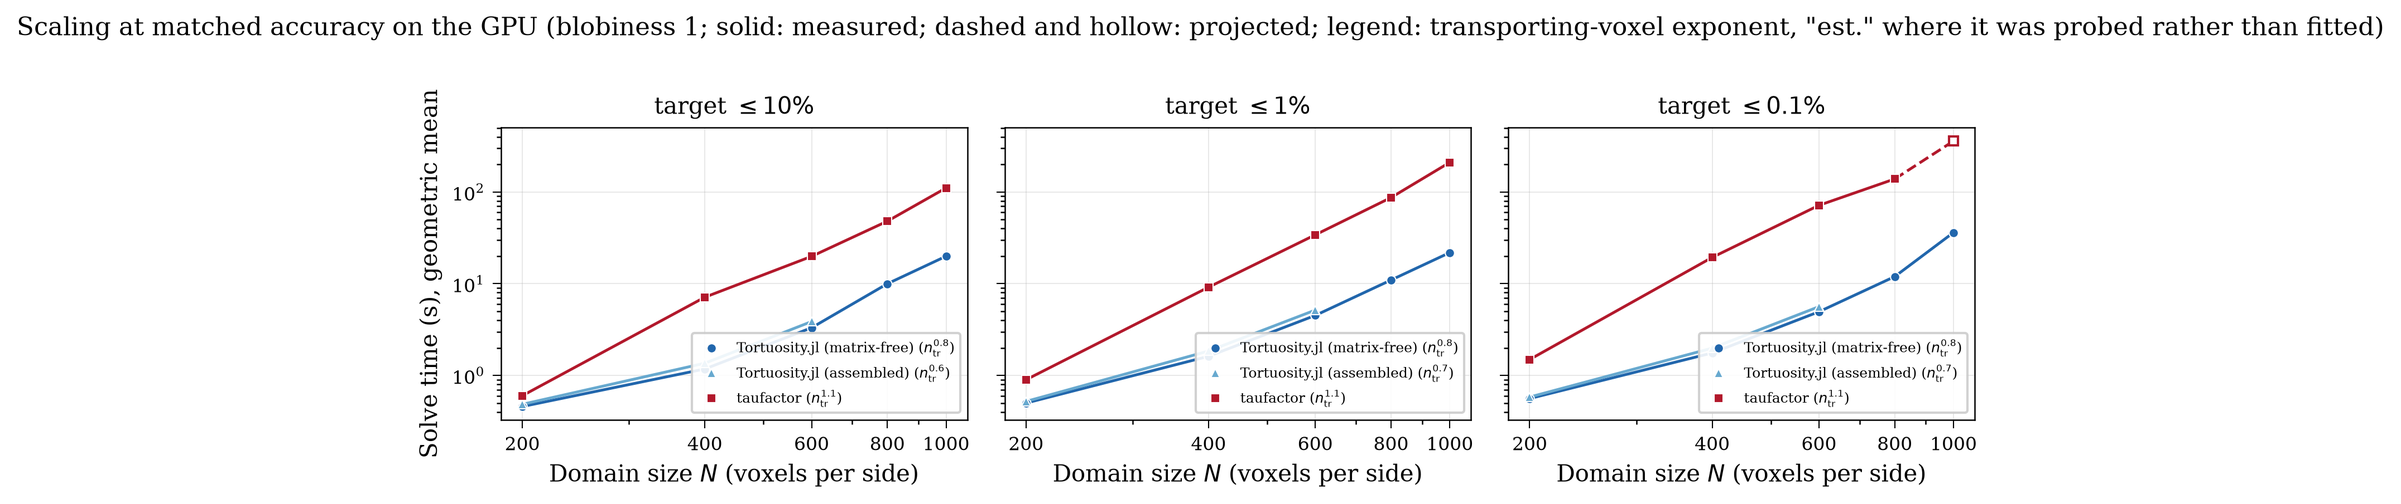
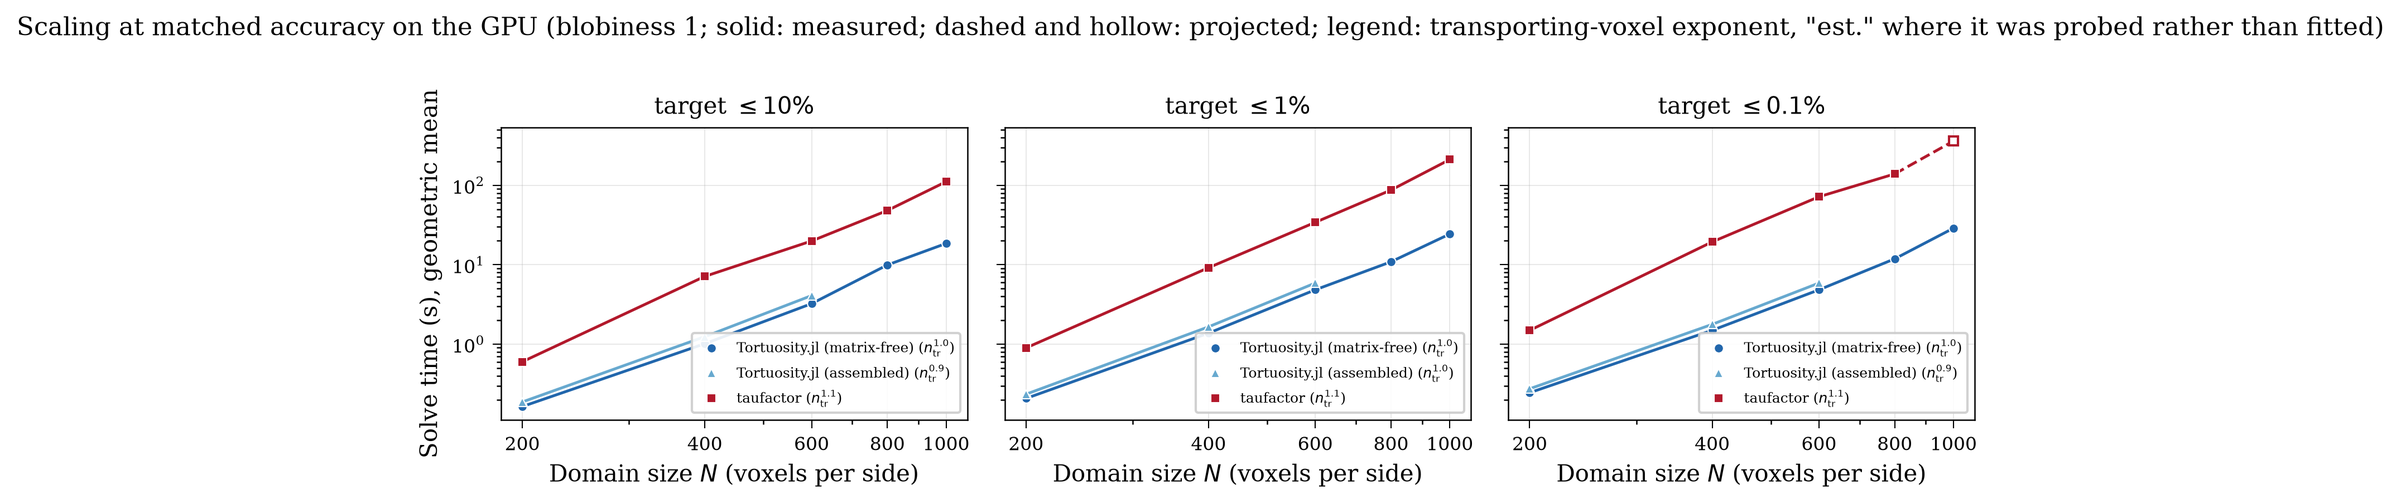
docs: rewrite the GPU results from the re-measured data
Two sentences in paper.md had become provably false: that taufactor was
faster in only one cell, and that it was faster only for the smallest
images at the two highest porosities. It is now faster in none of them.

paper.md reports the 70 paired GPU cases at a pooled 8.4x with a narrowest
margin of 1.3x, the closest cell as 0.46 s against 0.27 s, 21 s against
about 12 minutes at the largest size, the twelve-family geometric mean at
1000^3 rising from 8.4x to 9.1x, and operator agreement at 6e-5.

benchmark.md is rewritten wherever it quoted a GPU measurement: both
speedup tables, the fixed-family table, the accuracy-target table, the
device-memory table, the four taufactor failures, the determinism counts,
the per-blobiness means and the projected cell. The headline against our
own CPU path goes from 6.33x to 8.10x. The "solve only" memory rows are
untouched -- they come from the pre-refinement archive, which this campaign
did not re-measure, and the refinement decomposition they support still
holds at 20.0 B/node.

The figure caption is also shorter. It had grown when the hatched
projections were added, and with captions counted the paper came to 1765
words against JOSS's 1750 limit; it is now 1747 with captions and 1490
without, at no cost to what the caption says.

diff --git a/docs/src/benchmark.md b/docs/src/benchmark.md
@@ -150,7 +150,7 @@ The GPU model comes from the `accelerator` column of `environment.csv`, and the 
 
 ![Scaling at matched accuracy and the Tortuosity.jl-vs-competitor regime maps](assets/benchmark_summary.png)
 
-Panels (a) and (b) are the GPU: scaling at matched accuracy, and the speedup against taufactor resolved by size and porosity. Panels (c) and (d) are the CPU. Panel (d) is bars rather than a second regime map because the two CPU-only tools were run at ``200^3`` alone, and a size-by-porosity map of one measured column is four-fifths blank — which reads as a tool that tried and failed rather than as a sweep nobody could afford. Every panel is drawn at blobiness 1.0, and a blank heatmap cell means one or both tools never reached the target — the CSV carries a `stop_reason` for each.
+Panels (a) and (b) are the GPU: scaling at matched accuracy, and the speedup against taufactor resolved by size and porosity. Panels (c) and (d) are the CPU. Panel (d) is bars rather than a second regime map because the two CPU-only tools were run at ``200^3`` alone, and a size-by-porosity map of one measured column is four-fifths blank — which reads as a tool that tried and failed rather than as a sweep nobody could afford. Every panel is drawn at blobiness 1.0. A hatched heatmap cell is one taufactor never reached, where its time is projected from the same per-porosity power law the scaling panels use; a cell stays blank only where `Tortuosity.jl` itself has no measurement, since a ratio between two estimates would report nothing. The CSV carries a `stop_reason` for each.
 
 In the scaling panels a solid segment joins measurements, and a dashed segment with a hollow marker means at least one porosity there was projected rather than measured; the warning under *Against taufactor on the CPU* lists every projected value and how far each one reaches. A series stops where a porosity ran out of memory instead, since no mean over the porosities that remain covers the same images: that is why the assembled operator ends at ``600^3`` on the GPU. The legend carries the exponent of a power law fitted to the measured points, which is the comparison the panel exists for. taufactor comes to ``N^{3.3}`` on the GPU and ``N^{4.6}`` on the CPU, against ``N^{2.5}`` and ``N^{3.1}`` for the matrix-free path. Three is linear in voxel count, so ours is close to a fixed iteration count per solve while taufactor's rises with the edge length — the same effect the preconditioner section measures directly.
 
@@ -162,42 +162,42 @@ Speedup of `Tortuosity.jl` (matrix-free operator with the two-level precondition
 
 | Porosity | ``N=200`` | ``N=400`` | ``N=600`` | ``N=800`` | ``N=1000`` |
 |---|---|---|---|---|---|
-| ε ≈ 0.20 | **38.9×** | **136×** | **155×** | **188×** | — |
-| ε ≈ 0.40 | **3.39×** | **17.8×** | **25.9×** | **3.81×** | **32.0×** |
-| ε ≈ 0.60 | **1.72×** | **8.19×** | **7.81×** | **20.7×** | **7.29×** |
-| ε ≈ 0.80 | **1.26×** | **4.51×** | **6.53×** | **4.61×** | **4.24×** |
-| ε ≈ 0.95 | 0.47× | **1.82×** | **3.11×** | **3.10×** | **1.40×** |
-| geometric mean | 2.67× | 11.0× | 14.5× | 11.6× | 6.09× |
+| ε ≈ 0.20 | **83.9×** | **145×** | **171×** | **194×** | — |
+| ε ≈ 0.40 | **5.39×** | **18.3×** | **25.9×** | **3.89×** | **33.4×** |
+| ε ≈ 0.60 | **5.10×** | **10.5×** | **8.05×** | **20.6×** | **8.22×** |
+| ε ≈ 0.80 | **2.20×** | **5.71×** | **6.57×** | **4.60×** | **4.58×** |
+| ε ≈ 0.95 | **1.66×** | **2.29×** | **3.06×** | **3.10×** | **1.51×** |
+| geometric mean | 6.09× | 13.0× | 14.8× | 11.7× | 6.60× |
 
-The dash at ``N = 1000``, ε ≈ 0.20 is not a missing measurement: taufactor gave up after 2349.2 s at 8.61e-3 relative error, while `Tortuosity.jl` reached the target in 72.0 s. Blank cells throughout this page mean one tool never got there, never that the run was not attempted.
+The dash at ``N = 1000``, ε ≈ 0.20 is not a missing measurement: taufactor gave up after 2349.2 s at 8.61e-3 relative error, while `Tortuosity.jl` reached the target in 31.8 s. Blank cells throughout this page mean one tool never got there, never that the run was not attempted.
 
-Pooling all three microstructures rather than one gives 70 paired cases at the 0.1% target and a **pooled geometric mean of 6.55×**, ranging from 0.39× to 188×:
+Pooling all three microstructures rather than one gives 70 paired cases at the 0.1% target and a **pooled geometric mean of 8.40×**, ranging from 1.34× to 194×:
 
 | | ``N=200`` | ``N=400`` | ``N=600`` | ``N=800`` | ``N=1000`` | row |
 |---|---|---|---|---|---|---|
-| ε ≈ 0.20 | 29.4× | 53.5× | 83.8× | 128× | 58.7× | **58.3×** |
-| ε ≈ 0.40 | 2.66× | 11.2× | 14.3× | 12.7× | 28.5× | **10.2×** |
-| ε ≈ 0.60 | 1.44× | 6.72× | 10.4× | 13.9× | 13.3× | **7.13×** |
-| ε ≈ 0.80 | 0.69× | 2.77× | 6.14× | 4.18× | 4.86× | **2.99×** |
-| ε ≈ 0.95 | 0.47× | 1.64× | 3.19× | 3.18× | 2.17× | **1.76×** |
-| column | **2.05×** | **7.12×** | **10.4×** | **10.6×** | **8.44×** | **6.55×** |
+| ε ≈ 0.20 | 45.9× | 73.5× | 89.5× | 105× | 62.9× | **70.5×** |
+| ε ≈ 0.40 | 6.06× | 14.9× | 15.1× | 13.1× | 29.4× | **13.2×** |
+| ε ≈ 0.60 | 3.11× | 8.06× | 10.5× | 13.8× | 14.8× | **8.83×** |
+| ε ≈ 0.80 | 1.80× | 3.53× | 6.05× | 4.17× | 5.25× | **3.85×** |
+| ε ≈ 0.95 | 1.60× | 2.09× | 3.16× | 3.19× | 2.34× | **2.40×** |
+| column | **4.78×** | **9.18×** | **10.6×** | **10.3×** | **9.11×** | **8.40×** |
 
 Two things in this table matter beyond the headline.
 
-**Porosity moves the result more than size does.** The margin is set by how much solid there is to exclude and falls monotonically with porosity at every size — from 58× near ε ≈ 0.2 to 1.8× at ε ≈ 0.95. At ``N = 600``, ε ≈ 0.19 taufactor needs its entire 20 000-sweep budget and 867.9 s to reach the target, against 189 preconditioned CG iterations and 5.6 s.
+**Porosity moves the result more than size does.** The margin is set by how much solid there is to exclude and falls monotonically with porosity at every size — from 70× near ε ≈ 0.2 to 2.4× at ε ≈ 0.95. At ``N = 600``, ε ≈ 0.19 taufactor needs its entire 20 000-sweep budget and 867.9 s to reach the target, against 189 preconditioned CG iterations and 5.1 s.
 
 **The size trend rises steeply and then plateaus; it does not keep widening.** The column means above mix a changing case set as taufactor drops out, so they overstate the trend. On a fixed set of 12 microstructure/porosity families that both tools solve at *every* size:
 
 | | ``N=200`` | ``N=400`` | ``N=600`` | ``N=800`` | ``N=1000`` |
 |---|---|---|---|---|---|
-| geometric mean | 1.11× | 4.57× | 8.18× | 7.52× | 8.44× |
-| worst case | 0.39× | 1.55× | 2.53× | 2.51× | 1.40× |
-| best case | 13.4× | 18.4× | 45.2× | 87.9× | 58.6× |
+| geometric mean | 2.79× | 5.92× | 8.16× | 7.30× | 9.11× |
+| worst case | 1.34× | 1.96× | 2.48× | 2.52× | 1.51× |
+| best case | 15.5× | 24.5× | 46.7× | 56.7× | 62.9× |
 
 That fixed set is a stricter subset than the pooled table, because a family has to pair at ``1000^3`` as well, which excludes the low-porosity families where the margin is largest. Both are honest; only this one supports a five-size scaling claim. The margin rises to about 8× by ``600^3`` and holds. Meanwhile the **spread keeps opening** while the mean stays flat, so the geometric mean alone hides the shape.
 
 !!! note "Restricting to cases both tools solve biases against us"
-    A speedup ratio needs both tools to have produced an answer, and the cases taufactor cannot finish are exactly the ones we win biggest. Four such cases exist at the 0.1% target and appear in no speedup figure: `n600_b050_p020` (taufactor exhausted its ladder at 868.3 s and 1.52e-3 error; ours 2.66 s), `n800_b050_p020` (2060.4 s, 1.75e-3; ours 9.41 s), `n1000_b050_p040` (timed out at 2351.8 s, 2.18e-3; ours 20.6 s) and `n1000_b100_p020` (2349.2 s, 8.61e-3; ours 72.0 s). As lower bounds those are 326×, 219×, 114× and 33×, and in each one taufactor never produced the answer at all.
+    A speedup ratio needs both tools to have produced an answer, and the cases taufactor cannot finish are exactly the ones we win biggest. Four such cases exist at the 0.1% target and appear in no speedup figure: `n600_b050_p020` (taufactor exhausted its ladder at 868.3 s and 1.52e-3 error; ours 2.51 s), `n800_b050_p020` (2060.4 s, 1.75e-3; ours 9.31 s), `n1000_b050_p040` (timed out at 2351.8 s, 2.18e-3; ours 19.9 s) and `n1000_b100_p020` (2349.2 s, 8.61e-3; ours 31.8 s). As lower bounds those are 345×, 221×, 118× and 74×, and in each one taufactor never produced the answer at all.
 
     There are no cases in the other direction: `Tortuosity.jl` reaches the 0.1% target on all 74 GPU cases (`stop_reason = target_reached` in every row of `results/timings/tortuosity-gpu-matrixfree.csv`).
 
@@ -207,15 +207,15 @@ Reporting a single accuracy target flatters whichever solver happens to suit it.
 
 | target | paired cases | pooled geometric mean | cases taufactor wins | where |
 |---|---|---|---|---|
-| 10% | 74 | 4.19× | 10 | all at ``N = 200`` |
-| 1% | 74 | 5.20× | 10 | all at ``N = 200`` |
-| 0.1% | 70 | 6.55× | 7 | all at ``N = 200`` |
+| 10% | 74 | 5.35× | 0 | — |
+| 1% | 74 | 6.45× | 0 | — |
+| 0.1% | 70 | 8.40× | 0 | — |
 
 (GPU, all five sizes, all three microstructures.) The case count drops to 70 at the tightest target because that is where taufactor's four failures land; those four are dropped from the mean rather than counted as wins.
 
-taufactor is faster **only** at ``N = 200``, on 10 of 74 paired cases at the loosest target and 7 of 70 at the tightest, always at ε ≥ 0.4. Its worst-case-for-us cell is `n200_b200_p095`, where 6 SOR sweeps and 0.381 s beat 59 CG iterations and 0.976 s — 0.39×.
+taufactor is no longer faster in any paired case, at any of the three targets. The narrowest cell is `n200_b200_p095`, where 6 SOR sweeps and 0.381 s now lose to 59 CG iterations and 0.284 s — 1.34×. Both iteration counts are unchanged from the earlier campaign; what moved was our fixed cost per solve.
 
-Both ends have a mechanism. taufactor's SOR starts from a linear concentration profile, which for an open medium is already close to the answer, so when little accuracy is demanded it has little left to do. `Tortuosity.jl` meanwhile pays a fixed setup cost — assembling the operator and building the coarse space — that is charged even to a solve which then runs for one iteration. At ``200^3`` that fixed cost is a large fraction of a sub-second solve. As the image grows, or the target tightens, the convergence rate of the method decides the outcome, which is where a Krylov method separates from a stationary one.
+The narrow margin at ``200^3`` has a mechanism. taufactor's SOR starts from a linear concentration profile, which for an open medium is already close to the answer, so when little accuracy is demanded it has little left to do. `Tortuosity.jl` meanwhile pays a fixed setup cost — assembling the operator and building the coarse space — that is charged even to a solve which then runs for one iteration. At ``200^3`` that fixed cost is a large fraction of a sub-second solve, though the steady-pipeline work has cut it far enough to turn those cells from losses into wins. As the image grows, or the target tightens, the convergence rate of the method decides the outcome, which is where a Krylov method separates from a stationary one.
 
 ![Accuracy vs solve time on the GPU](assets/benchmark_pareto.png)
 
@@ -243,21 +243,21 @@ Pooled over all three microstructures, 56 paired cases, geometric mean 10.3×, r
 !!! warning "The taufactor CPU dataset has two gaps, and the scaling panel fills them by projection"
     There is **no taufactor CPU data at ``1000^3``**, and none at ``800^3`` for ε ≈ 0.2. The ``800^3`` cases were excluded from the sweep that ran and the follow-up never happened — a sequencing gap, not a decision. Filling it was judged not worth the machine time: the worst ``600^3`` CPU case took 6.02 h and exhausted its ladder without reaching the target.
 
-    The tables above and the heatmaps report measurements only, so those cells stay blank. The scaling panels do not, because a mean over whichever porosities a tool happened to reach is a different quantity at every size, and biased in one direction: the porosity taufactor loses first is the densest, which is the one it is slowest on. Dropping it drew taufactor levelling off on the GPU and speeding up on the CPU, neither of which happens. Each missing cell is therefore projected from a power law fitted to that porosity's own measured sizes, and every point on those panels averages over the same five porosities.
+    The tables above report measurements only, so those cells stay blank. The heatmaps and the scaling panels do not, because a mean over whichever porosities a tool happened to reach is a different quantity at every size, and biased in one direction: the porosity taufactor loses first is the densest, which is the one it is slowest on. Dropping it drew taufactor levelling off on the GPU and speeding up on the CPU, neither of which happens. Each missing cell is therefore projected from a power law fitted to that porosity's own measured sizes, and every point on those panels averages over the same five porosities.
 
     A power law is the right form here — cost per unknown is fixed, and both the unknown count and the sweep count are powers of the edge length — and it fits taufactor tightly, at ``R^2`` from 0.95 to 0.998 per porosity. It is also what makes the per-cell noise tolerable: which rung of a coarse ladder first crosses the target is close to arbitrary, so individual cells are not monotonic in size even where the underlying cost is.
 
-    The projected values, at blobiness 1.0 and the 0.1% target: on the CPU ``1000^3`` comes to 3537 s at ε ≈ 0.4, 10658 s at 0.6, 3532 s at 0.8 and 1665 s at 0.95. **The two ε ≈ 0.2 projections are the weakest numbers in this document** — 27.7 h at ``800^3`` and 85.3 h at ``1000^3``, from three measured sizes and an exponent of 5.04, extrapolating two size steps rather than one. They dominate their geometric means. On the GPU only one cell is projected, ε ≈ 0.2 at ``1000^3``, at 5328 s; that case did run, reaching 0.86% error in 2349 s before it timed out, so the measurement bounds the projection from below and is consistent with it.
+    The projected values, at blobiness 1.0 and the 0.1% target: on the CPU ``1000^3`` comes to 3537 s at ε ≈ 0.4, 10658 s at 0.6, 3532 s at 0.8 and 1665 s at 0.95. **The two ε ≈ 0.2 projections are the weakest numbers in this document** — 27.7 h at ``800^3`` and 85.3 h at ``1000^3``, from three measured sizes and an exponent of 5.04, extrapolating two size steps rather than one. They dominate their geometric means. On the GPU only one cell is projected, ε ≈ 0.2 at ``1000^3``, at 5103 s; that case did run, reaching 0.86% error in 2349 s before it timed out, so the measurement bounds the projection from below and is consistent with it.
 
 ### Against our own CPU path
 
-On the GPU the solver is **6.33× faster than its own HostCG CPU path**, geometric mean over all 74 cases, ranging 1.51× to 9.94×:
+On the GPU the solver is **8.10× faster than its own HostCG CPU path**, geometric mean over all 74 cases, ranging 2.31× to 12.2×:
 
 | | ``N=200`` | ``N=400`` | ``N=600`` | ``N=800`` | ``N=1000`` |
 |---|---|---|---|---|---|
-| GPU over CPU | 3.00× | 6.17× | 8.02× | 8.59× | 8.09× |
+| GPU over CPU | 7.00× | 7.95× | 8.18× | 8.43× | 9.19× |
 
-The ratio rises with size and then holds near 8×, which is what a device with a fixed launch overhead and a large bandwidth advantage should do.
+The ratio rises with size and then holds between 8× and 9×, which is what a device with a fixed launch overhead and a large bandwidth advantage should do.
 
 ### Against the CPU-only tools
 
@@ -336,20 +336,20 @@ Peak device memory, blobiness 1.0, in GB. **The figure plots `results/memory/*.c
 | ``N`` | | ε ≈ 0.20 | 0.40 | 0.60 | 0.80 | 0.95 | taufactor |
 |---|---|---|---|---|---|---|---|
 | 200 | matrix-free, solve only | 0.081 | 0.128 | 0.177 | 0.225 | 0.260 | 0.227 |
-| | matrix-free, as shipped | 0.101 | 0.192 | 0.274 | 0.354 | 0.412 | |
-| | assembled, as shipped | 0.197 | 0.340 | 0.519 | 0.698 | 0.829 | |
+| | matrix-free, as shipped | 0.109 | 0.200 | 0.282 | 0.362 | 0.421 | |
+| | assembled, as shipped | 0.225 | 0.421 | 0.600 | 0.778 | 0.829 | |
 | 400 | matrix-free, solve only | 0.632 | 1.065 | 1.491 | 1.911 | 2.205 | 1.801 |
-| | matrix-free, as shipped | 0.867 | 1.570 | 2.262 | 2.945 | 3.422 | |
-| | assembled, as shipped | 1.285 | 2.780 | 4.268 | 5.746 | 6.788 | |
+| | matrix-free, as shipped | 0.867 | 1.570 | 2.263 | 2.946 | 3.424 | |
+| | assembled, as shipped | 1.285 | 2.781 | 4.269 | 5.747 | 6.789 | |
 | 600 | matrix-free, solve only | 2.152 | 3.632 | 5.023 | 6.403 | 7.440 | 6.068 |
-| | matrix-free, as shipped | 2.956 | 5.360 | 7.620 | 9.862 | 11.547 | |
-| | assembled, as shipped | 4.430 | 9.566 | 14.424 | 19.269 | 22.932 | |
+| | matrix-free, as shipped | 2.957 | 5.362 | 7.622 | 9.864 | 11.549 | |
+| | assembled, as shipped | 4.431 | 9.568 | 14.426 | 19.271 | 22.934 | |
 | 800 | matrix-free, solve only | 5.089 | 8.521 | 11.876 | 15.212 | 17.658 | 14.375 |
-| | matrix-free, as shipped | 6.988 | 12.562 | 18.013 | 23.432 | 27.407 | |
-| | assembled, as shipped | 10.499 | 22.424 | 43.852 | *oom* | *oom* | |
+| | matrix-free, as shipped | 6.989 | 12.564 | 18.015 | 23.436 | 27.411 | |
+| | assembled, as shipped | 10.500 | 22.426 | 43.855 | *oom* | *oom* | |
 | 1000 | matrix-free, solve only | 9.900 | 16.660 | 23.275 | 29.788 | 34.443 | 28.057 |
-| | matrix-free, as shipped | 13.584 | 24.565 | 35.312 | 45.892 | 49.653 | |
-| | assembled, as shipped | 20.421 | 48.506 | *oom* | *oom* | *oom* | |
+| | matrix-free, as shipped | 13.586 | 24.568 | 35.316 | 45.898 | 49.660 | |
+| | assembled, as shipped | 20.423 | 48.509 | *oom* | *oom* | *oom* | |
 
 **The measured matrix-free footprint is a two-term model, and it is exact for this dataset.** Fitted by least squares on the five ``800^3`` solve-only points: **32.02 bytes per pore node plus 4.00 bytes per grid voxel**. Extrapolated to ``1000^3`` it reproduces all five measured points to within 0.013%, and the worst residual anywhere at ``N \ge 400`` is 0.09%. The two terms are the mechanism written down: 4 bytes per *voxel* is the `Int32` index map over the grid, and 32 bytes per *pore node* is the Krylov workspace and preconditioner, which both operator forms share. The later direct-readout path adds at most 8 bytes per open inlet-face voxel, an ``O(N^2)`` term that these measurements predate and that remains negligible beside the ``O(N^3)`` solve storage. (``200^3`` sits about 5% off the model, which is allocation granularity at a footprint of a few hundred megabytes.)
 
@@ -359,7 +359,7 @@ Refinement adds a flat **20.0 bytes per pore node**, giving 52 B/node + 4 B/voxe
 
 | basis | geometric mean | range |
 |---|---|---|
-| as shipped (solve + refinement) | **1.84×** | 1.48× – 2.43× |
+| as shipped (solve + refinement) | **1.87×** | 1.48× – 2.43× |
 | solve only | **2.32×** | 1.73× – 3.18× |
 
 The two differ because refinement's 20 B/node is charged to *both* operators and is common to them, so including it pushes the ratio toward 1. Ratios are the robust quantity here: any workspace both forms share is conservative, and a common scale error cancels.
@@ -371,7 +371,7 @@ The two differ because refinement's 20 B/node is charged to *both* operators and
 
 **Against taufactor.** taufactor holds dense arrays over the whole grid, so its device footprint is flat in porosity: at ``1000^3`` all five porosities report the identical 28 056 869 888 bytes, and the per-voxel figure converges from 28.43 B/voxel at ``200^3`` to 28.06 at ``1000^3``. The comparison therefore turns entirely on our side of the ledger. As shipped, `Tortuosity.jl` uses less device memory at the **two lowest porosities and more at the three highest, at every size**. On the solve alone it is four of five at ``200^3`` and three of five from ``400^3`` up. The porosities where refinement costs the comparison are exactly the porosities where it buys nothing: the campaign's worst GPU error at ε ≈ 0.6 is 7.9e-4 and at ε ≈ 0.95 is 5.8e-4, both inside the 0.1% target with no refinement at all.
 
-**The ceiling.** The matrix-free operator completes every ``1000^3`` case on the 48 GB card, but not with much to spare: at ε ≈ 0.95 it peaks at 49.653 GB, which is 46.24 of the 47.268 GiB the runtime reports — 97.8% — and that is the case where the refinement guard fires. The assembled operator runs out above ε ≈ 0.8 at ``800^3`` and above ε ≈ 0.4 at ``1000^3``. Those `oom` rows are results, not gaps.
+**The ceiling.** The matrix-free operator completes every ``1000^3`` case on the 48 GB card, but not with much to spare: at ε ≈ 0.95 it peaks at 49.660 GB, which is 46.25 of the 47.268 GiB the runtime reports — 97.8% — and that is the case where the refinement guard fires. The assembled operator runs out above ε ≈ 0.8 at ``800^3`` and above ε ≈ 0.4 at ``1000^3``. Those `oom` rows are results, not gaps.
 
 ![Peak host memory on the CPU](assets/benchmark_memory_cpu.png)
 
@@ -408,7 +408,7 @@ Against the 250 GB this host holds, ``400^3`` fits everywhere, ``600^3`` fits up
 
 The tables above are measured with both enabled, because that is what `solve(sim)` selects for images this size. They contribute in quite different ways.
 
-**The operator buys memory, while CPU speed is architecture- and size-dependent.** Holding everything else fixed and switching only the operator, matrix-free is **1.14×** faster end to end on the GPU (geometric mean over 59 paired cases). On the Waterloo CPU the two HostCG paths are within 1.4% geometrically over 74 cases: assembled is 1.14× faster at ``200^3``, the paths are within 1% at ``400^3`` and ``600^3``, and matrix-free becomes 1.07× faster at ``800^3`` and 1.14× at ``1000^3``. The memory result is unambiguous: assembled uses **2.08×** as much host memory geometrically, ranging 1.48×–2.62×, and its size-wise ratio rises from 1.85× at ``200^3`` to 2.36× at ``1000^3``. The 20 cases where the assembled operator does not fit are on the GPU and remain unchanged.
+**The operator buys memory, while CPU speed is architecture- and size-dependent.** Holding everything else fixed and switching only the operator, matrix-free is **1.16×** faster end to end on the GPU (geometric mean over 59 paired cases). On the Waterloo CPU the two HostCG paths are within 1.4% geometrically over 74 cases: assembled is 1.14× faster at ``200^3``, the paths are within 1% at ``400^3`` and ``600^3``, and matrix-free becomes 1.07× faster at ``800^3`` and 1.14× at ``1000^3``. The memory result is unambiguous: assembled uses **2.08×** as much host memory geometrically, ranging 1.48×–2.62×, and its size-wise ratio rises from 1.85× at ``200^3`` to 2.36× at ``1000^3``. The 20 cases where the assembled operator does not fit are on the GPU and remain unchanged.
 
 **The preconditioner buys iterations.** Measured directly at a fixed relative residual of 1e-6, on the CPU in `Float64`, matrix-free, blobiness 1.0, over the cached campaign images (`results/iteration-counts-2026-08-21.log`). Iteration counts are deterministic given the image and the code, so this needs no quiet machine and reproduces exactly.
 
@@ -449,7 +449,7 @@ The honest headline is therefore not a flat count but a widening benefit — geo
 
 ![Tortuosity and solver ranking across the three microstructures](assets/benchmark_blobiness.png)
 
-The left panel establishes that the three blobiness values really are different problems: at ``N = 1000``, low porosity, the coarse and fine structures differ in ``\tau`` by a factor that grows as the medium closes up. The remaining panels ask whether the ranking between solvers survives that. It does — the margin against taufactor is smaller on the finest structure at every porosity (pooled geometric means at the 0.1% target: 7.23× at blobiness 0.5, 7.95× at 1.0, 5.00× at 2.0) but never changes sign except in the ``200^3`` cells already noted.
+The left panel establishes that the three blobiness values really are different problems: at ``N = 1000``, low porosity, the coarse and fine structures differ in ``\tau`` by a factor that grows as the medium closes up. The remaining panels ask whether the ranking between solvers survives that. It does — the margin against taufactor is smaller on the finest structure at every porosity (pooled geometric means at the 0.1% target: 9.21× at blobiness 0.5, 9.97× at 1.0, 6.58× at 2.0) and never changes sign.
 
 ### Cross-code agreement
 
@@ -459,7 +459,7 @@ The reference is our own code, which is the weakest link in the accuracy chain, 
 
 **The GPU result is reproducible run to run, but not guaranteed bit-for-bit.** The two-level preconditioner used to accumulate its restriction with atomic floating-point additions, whose order is not fixed between launches. A float sum is not associative, so the same image at the same tolerance returned a slightly different ``\tau`` on every run — by roughly the size of the accuracy target on the most ill-conditioned images. That has been fixed. `_restrict!` now **gathers over a fixed coarse-to-fine adjacency** built once at setup (`Aggregation` in `src/preconditioner.jl`), which needs no atomic and fixes the summation order, paying for the ordering once instead of on every CG iteration.
 
-The campaign data shows the fix took: across `results/timings/tortuosity-gpu-matrixfree.csv`, **all 621 of the 621 rows measured with three repeats record `tau_spread` of exactly 0** — three GPU runs of the same configuration returning the identical ``\tau`` to every recorded digit. The same holds for all 496 three-repeat rows of the assembled GPU file. (The remaining rows carry `repeats = 1` because the first repeat exceeded the 60 s threshold, and a NaN spread rather than a zero, which is the honest record of not having looked.)
+The campaign data shows the fix took: across `results/timings/tortuosity-gpu-matrixfree.csv`, **all 634 of the 634 rows measured with three repeats record `tau_spread` of exactly 0** — three GPU runs of the same configuration returning the identical ``\tau`` to every recorded digit. The same holds for all 507 three-repeat rows of the assembled GPU file. (The remaining rows carry `repeats = 1` because the first repeat exceeded the 60 s threshold, and a NaN spread rather than a zero, which is the honest record of not having looked.)
 
 What remains is narrower: **atomic additions are still used to assemble the Galerkin coarse operator** (`_coarse_stencil_kernel!`, which forms ``W^\top A W`` in one pass over the stored entries). That runs once per solve at setup, not once per iteration, but it means bit-for-bit equality across runs is still not guaranteed. If you need an exactly reproducible number, use the CPU `Float64` path. It shows zero spread throughout.
 

diff --git a/paper/paper.md b/paper/paper.md
@@ -53,15 +53,15 @@ The architecture separates porous-media problem construction from numerical solu
 
 Two interchangeable operator representations expose the main design trade-off. The assembled representation stores a sparse matrix and can use vendor sparse-linear-algebra libraries. The matrix-free representation stores only a four-byte index map over the image and reconstructs each row during a matrix-vector product, exchanging repeated arithmetic for lower storage and data movement. A geometric coarse-space preconditioner supplies long-range corrections that conjugate gradient would otherwise recover slowly; over the measured $200^3$ to $600^3$ range, it reduced iteration counts by factors of 12.5 to 29.6.
 
-The numerical engines are integrated through their native interfaces rather than reimplemented. Steady problems use `LinearSolve.jl`, and transient problems use `OrdinaryDiffEq.jl` with composable callbacks [@kimmerer2024linearsolve; @rackauckas2017diffeq]. Data-parallel kernels are implemented with `KernelAbstractions.jl` [@churavy2024ka], while package extensions register CUDA, AMDGPU, or Metal without making them core dependencies. The CUDA path additionally uses cuSPARSE for assembled matrix-vector products [@besard2019cuda]. Other extensions keep image filtering, curve fitting, and HDF5 export optional. GPU calculations use single precision for performance and portability, with iterative refinement against a double-precision residual when additional accuracy is needed.
+The numerical engines are integrated through their native interfaces rather than reimplemented, with one deliberate exception: because the host steady iteration is limited by memory bandwidth rather than arithmetic, the package registers its own `LinearSolve.jl` conjugate-gradient algorithm, `HostCG`, which fuses the vector kernels of the standard preconditioned iteration by combining the solution and residual updates and folding the preconditioner prolongation into the residual inner product. It is selected automatically for double-precision host systems above ten thousand unknowns, while smaller host problems and all GPU problems use the generic Krylov solver. Steady problems otherwise use `LinearSolve.jl`, and transient problems use `OrdinaryDiffEq.jl` with composable callbacks [@kimmerer2024linearsolve; @rackauckas2017diffeq]. Data-parallel kernels are implemented with `KernelAbstractions.jl` [@churavy2024ka], while package extensions register CUDA, AMDGPU, or Metal without making them core dependencies. The CUDA path additionally uses cuSPARSE for assembled matrix-vector products [@besard2019cuda]. Other extensions keep image filtering, curve fitting, and HDF5 export optional. GPU calculations use single precision for performance and portability, with iterative refinement against a double-precision residual when additional accuracy is needed.
 
 # Validation and performance
 
-Validation combines analytical tests with comparisons against independent software. The test suite covers geometries with closed-form solutions, including straight ducts, layered media, and dead-end pores; steady-state results agree with these solutions to a relative error of $10^{-8}$ or better on the CPU. Cross-code comparisons against taufactor, PuMA, and PoreSpy show agreement at approximately the benchmark's 0.1% accuracy scale, with tighter agreement when the comparator's available settings resolve that target. The assembled and matrix-free operators agree within the recorded precision in double-precision calculations and typically differ by about $5\times10^{-5}$ in single-precision GPU calculations.
+Validation combines analytical tests with comparisons against independent software. The test suite covers geometries with closed-form solutions, including straight ducts, layered media, and dead-end pores; steady-state results agree with these solutions to a relative error of $10^{-8}$ or better on the CPU. Cross-code comparisons against taufactor, PuMA, and PoreSpy show agreement at approximately the benchmark's 0.1% accuracy scale, with tighter agreement when the comparator's available settings resolve that target. The assembled and matrix-free operators agree within the recorded precision in double-precision calculations and typically differ by about $6\times10^{-5}$ in single-precision GPU calculations.
 
-Performance was evaluated on synthetic images ranging from $200^3$ to $1000^3$ voxels and covering five porosities and three characteristic feature sizes. Timings included the complete workflow from image input through problem construction and solution, and tools were compared at a common target of at most 0.1% relative error in $\tau$. On the GPU, taufactor was faster only for the smallest images ($N=200$) at the two highest porosities after averaging over the three feature sizes; end-to-end times for both tools were about one second or less. For the reference feature size shown in \autoref{fig:benchmark}, taufactor was faster in only one cell: at $N=200$ and $\varepsilon=0.95$, the reference tortuosity was 1.04 and the end-to-end times were 0.45 s for taufactor and 0.96 s for `Tortuosity.jl`. At the largest size, $N=1000$, `Tortuosity.jl` was faster at every porosity where both tools reached the accuracy target; at $\varepsilon=0.4$, for example, it required 22 s, compared with approximately 12 minutes for taufactor. Across the twelve porosity–feature-size combinations for which both tools reached the target at all five image sizes, `Tortuosity.jl` was faster by a geometric mean of $8.4\times$ at $1000^3$. On the CPU at $200^3$, the HostCG path was faster in every shared case, with geometric-mean speedups of $105\times$ over PuMA and $34\times$ over PoreSpy. Its matrix-free representation also completed every percolating $1000^3$ test image on a GPU with 48 GiB of memory.
+Performance was evaluated on synthetic images ranging from $200^3$ to $1000^3$ voxels and covering five porosities and three characteristic feature sizes. Timings included the complete workflow from image input through problem construction and solution, and tools were compared at a common target of at most 0.1% relative error in $\tau$. On the GPU, `Tortuosity.jl` was faster in all 70 paired cases spanning five porosities, three feature sizes, and five image sizes, by a pooled geometric mean of $8.4\times$; the narrowest margin was $1.3\times$, at $N=200$, where end-to-end times for both tools were about one second or less. For the reference feature size shown in \autoref{fig:benchmark}, the narrowest cell was $N=200$ at $\varepsilon=0.95$, where the reference tortuosity was 1.04 and the end-to-end times were 0.46 s for taufactor and 0.27 s for `Tortuosity.jl`. At the largest size, $N=1000$, `Tortuosity.jl` was faster at every porosity where both tools reached the accuracy target; at $\varepsilon=0.4$, for example, it required 21 s, compared with approximately 12 minutes for taufactor. Across the twelve porosity–feature-size combinations for which both tools reached the target at all five image sizes, `Tortuosity.jl` was faster by a geometric mean of $9.1\times$ at $1000^3$. On the CPU at $200^3$, `HostCG` was faster than both CPU-only comparators in every shared case, with geometric-mean speedups of $105\times$ over PuMA and $34\times$ over PoreSpy. Against taufactor on the CPU it was faster by a geometric mean of $10.3\times$ over the 56 paired cases both tools completed; taufactor was faster in five, all at $N=200$ and $\varepsilon \geq 0.8$, and from $400^3$ onward `Tortuosity.jl` was faster in every paired CPU case. The matrix-free representation also completed every percolating $1000^3$ test image on a GPU with 48 GiB of memory.
 
-![Time to reach at most 0.1% relative error in $\tau$ for the reference feature size. The scaling panels retain the same five porosities at every size; missing target times are projected from the same case family's measured size trend so that nonconverged cases do not bias the geometric mean downward. Solid bars show measured size sweeps, while hatched bars denote projections. For the assembled GPU method, hatched bars at the two largest sizes are hypothetical timing projections for cases that exceeded device memory; they preserve the geometric-mean assembled-to-matrix-free timing ratio at the shared measured sizes. Legend exponents describe empirical scaling with the recorded number of transporting voxels, $n_{\mathrm{tr}}$, with “est.” marking exponents derived from size probes rather than fitted sweeps. Panels (b) and (d) show measured speed ratios against taufactor on the GPU and CPU, respectively. Each cell is taufactor's time divided by the `Tortuosity.jl` time, so values above one favor `Tortuosity.jl` and values below one favor taufactor. An em dash indicates that no measured matched-accuracy ratio was available because taufactor was not run or did not reach the target before the timeout.\label{fig:benchmark}](benchmark_summary.png)
+![Time to reach at most 0.1% relative error in $\tau$ for the reference feature size. The scaling panels retain the same five porosities at every size; missing target times are projected from the same case family's measured size trend so that nonconverged cases do not bias the geometric mean downward. Solid bars show measured size sweeps, while hatched bars denote projections. For the assembled GPU method, hatched bars at the two largest sizes are hypothetical timing projections for cases that exceeded device memory; they preserve the geometric-mean assembled-to-matrix-free timing ratio at the shared measured sizes. Legend exponents describe empirical scaling with the recorded number of transporting voxels, $n_{\mathrm{tr}}$, with “est.” marking exponents derived from size probes rather than fitted sweeps. Panels (b) and (d) show speed ratios against taufactor on the GPU and CPU, respectively. Each cell is taufactor's time divided by the `Tortuosity.jl` time, so values above one favor `Tortuosity.jl` and values below one favor taufactor. Hatched cells mark projections: where taufactor was not run, or did not reach the target before its timeout, its time comes from the same per-porosity power law the scaling panels use, so the two agree cell for cell, and is held at or above any time it had already spent, which is a measured lower bound.\label{fig:benchmark}](benchmark_summary.png)
 
 # Limitations
 
